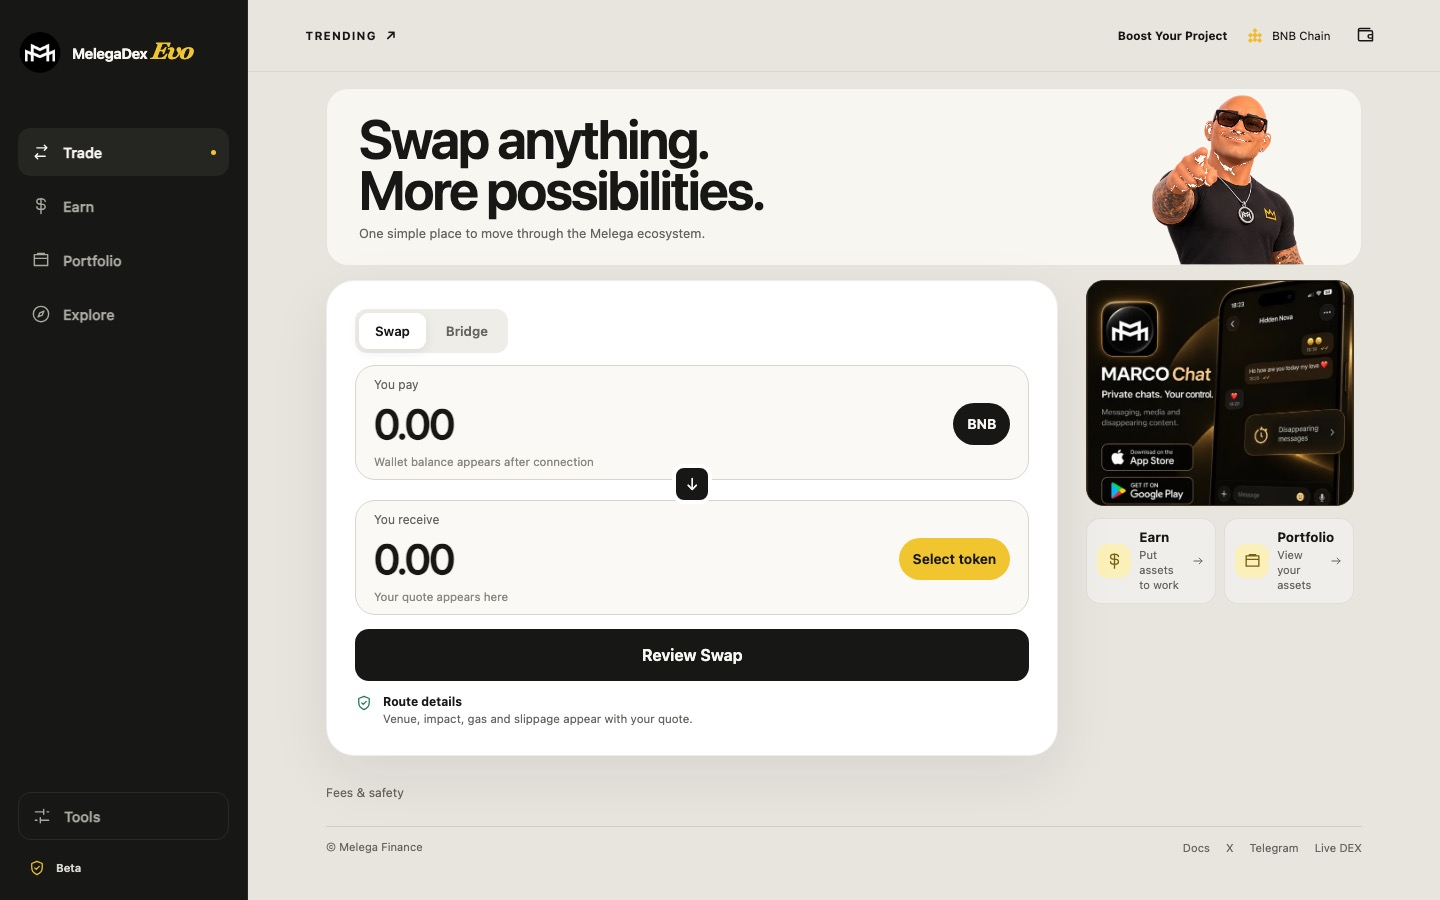
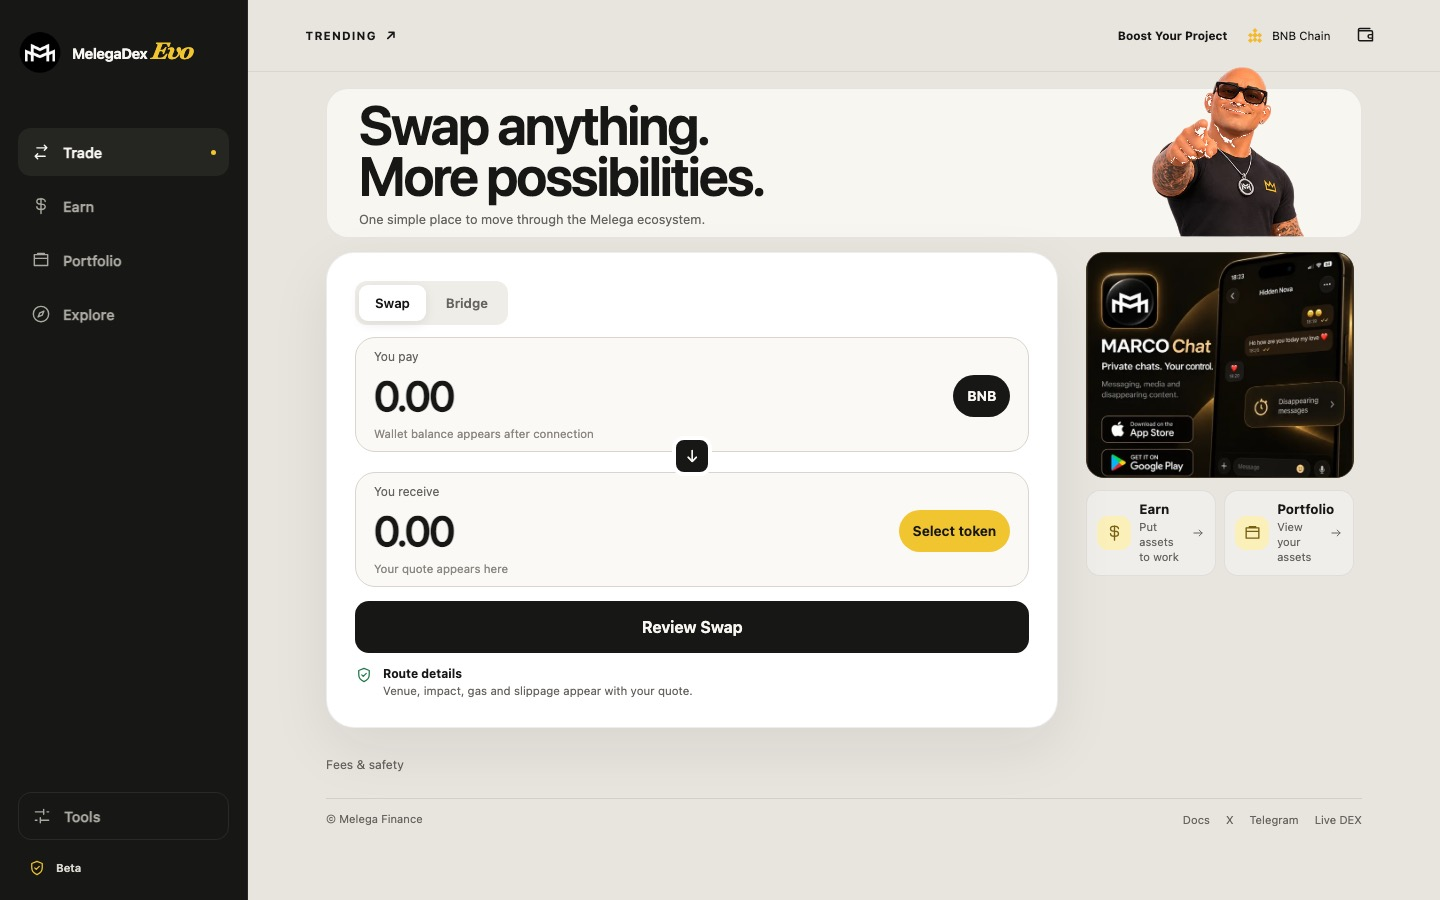
fix(next-gen): remove final desktop scroll

diff --git a/apps/next-gen/styles/globals.css b/apps/next-gen/styles/globals.css
@@ -419,7 +419,7 @@ h3 { margin: 0; font-size: 1rem; font-weight: 620; letter-spacing: -0.02em; }
 
 @media (min-width: 961px) and (min-height: 760px) {
   .app-shell[data-section='swap'] .main { padding-top: 16px; padding-bottom: 14px; }
-  .app-shell[data-section='swap'] .trade-brand-hero { min-height: 124px; margin-bottom: 14px; }
+  .app-shell[data-section='swap'] .trade-brand-hero { min-height: 124px; margin-bottom: 14px; padding-block: 10px; }
   .app-shell[data-section='swap'] .trade-brand-hero .marco-pose { width: 170px; height: 170px; }
   .app-shell[data-section='swap'] .asset-field { min-height: 96px; margin-top: 12px; padding-block: 11px; }
   .app-shell[data-section='swap'] .route-note { margin-top: 12px; }
